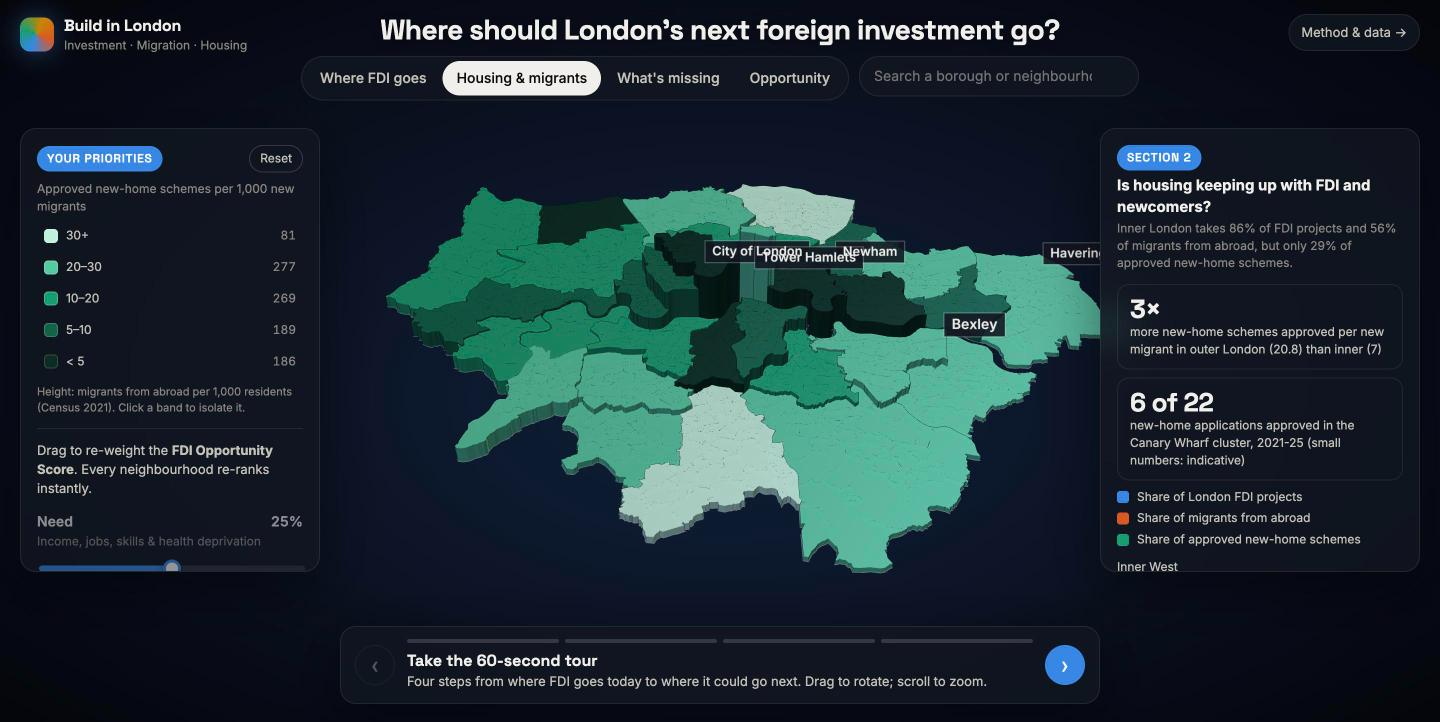
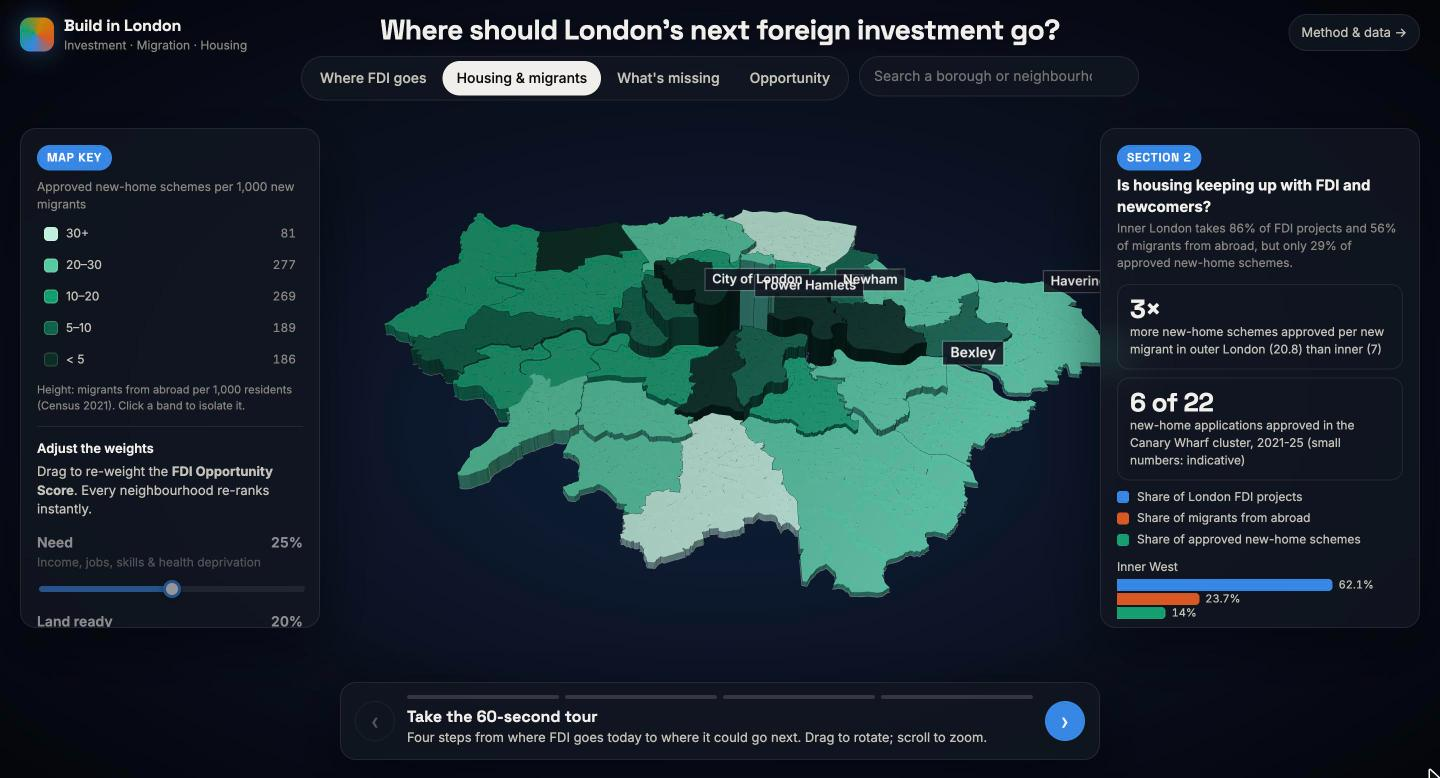
fix: use 'Map key' heading in all views, label slider section, refresh screenshots

diff --git a/web/index.html b/web/index.html
@@ -8,7 +8,7 @@
   <link rel="preconnect" href="https://fonts.googleapis.com">
   <link rel="preconnect" href="https://fonts.gstatic.com" crossorigin>
   <link rel="stylesheet" href="https://fonts.googleapis.com/css2?family=Inter:wght@400;500;600;700&family=Space+Grotesk:wght@500;600;700&display=swap">
-  <link rel="stylesheet" href="css/app.css?v=4">
+  <link rel="stylesheet" href="css/app.css?v=5">
 </head>
 <body>
   <div id="map" aria-label="3D map of London neighbourhoods"></div>
@@ -44,10 +44,11 @@
   <!-- ============================================================ LEFT PANEL -->
   <aside class="panel left" id="left">
     <div class="panel-head">
-      <span class="pill" id="left-title">Your priorities</span>
+      <span class="pill" id="left-title">Map key</span>
       <button class="ghost" id="reset" type="button">Reset</button>
     </div>
     <div class="legend-box" id="legend"></div>
+    <div class="weights-title">Adjust the weights</div>
     <p class="hint">Drag to re-weight the <b>FDI Opportunity Score</b>. Every neighbourhood re-ranks instantly.</p>
     <div id="sliders"></div>
   </aside>
@@ -75,6 +76,6 @@
   <div id="loading" class="loading">Building London…</div>
 
   <script src="https://unpkg.com/deck.gl@9.0.38/dist.min.js"></script>
-  <script src="js/app.js?v=4"></script>
+  <script src="js/app.js?v=6"></script>
 </body>
 </html>

diff --git a/web/js/app.js b/web/js/app.js
@@ -298,7 +298,6 @@
       })
     );
     $("left").classList.toggle("dim", state.mode !== "score");
-    $("left-title").textContent = state.mode === "score" ? "Your priorities" : "Map key";
     $("reset").hidden = state.mode !== "score";
   }
 
@@ -353,7 +352,7 @@
             .map((f) => ({ id: P(f).id, name: P(f).name, meta: P(f).borough, score: P(f).score }));
     const top = list[0].score;
     el.innerHTML = `<span class="pill">Leaderboard</span>
-      <p class="sub" style="margin-top:8px">Ranked by your priorities. Click to fly there.</p>
+      <p class="sub" style="margin-top:8px">Ranked by the current weights. Click to fly there.</p>
       <div class="tabs" role="tablist">
         <button role="tab" data-t="boroughs" aria-selected="${state.lbTab === "boroughs"}">Boroughs</button>
         <button role="tab" data-t="msoas" aria-selected="${state.lbTab === "msoas"}">Neighbourhoods</button></div>

diff --git a/web/css/app.css b/web/css/app.css
@@ -208,3 +208,4 @@ input[type=range]::-moz-range-thumb { width: 14px; height: 14px; border-radius: 
 .tier .sw { width: 14px; height: 14px; border-radius: 4px; box-shadow: inset 0 0 0 1px rgba(255,255,255,.15); }
 .tier .tc { color: var(--muted); font-variant-numeric: tabular-nums; }
 .legend-note { color: var(--muted); font-size: 11px; margin-top: 8px; }
+.weights-title { font-weight: 600; font-size: 13px; color: var(--ink); margin-bottom: 4px; }
